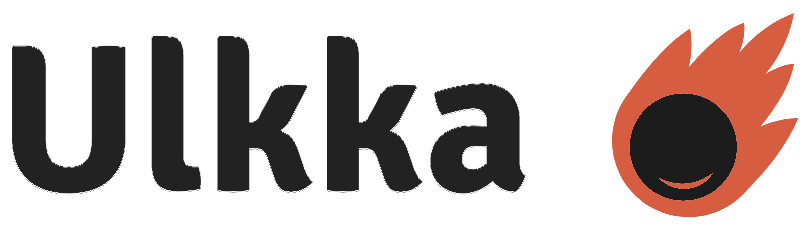
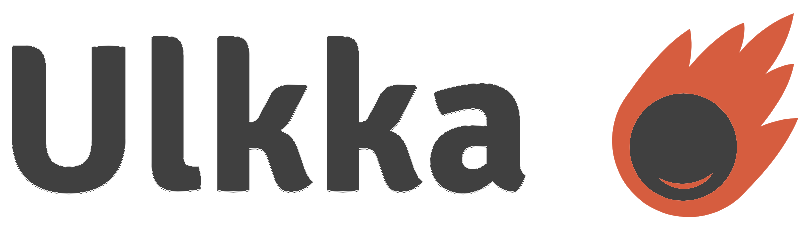
ios launch screen and some color changes

Changed region(s): [[0.1852, 0.1522, 0.6481, 0.8522], [0.0, 0.1826, 0.1543, 0.8522], [0.7716, 0.3957, 0.9259, 0.8826]]

diff --git a/src/screens/user/UserDetail.js b/src/screens/user/UserDetail.js
@@ -121,7 +121,7 @@ const AccountDetail = memo((props) => {
       style={{
         fontSize: 17,
         fontWeight: 'bold',
-        color: '#555',
+        color: '#444',
         paddingHorizontal: 10,
       }}>
       {userDisplayname}

diff --git a/src/components/Post/PostTitle.js b/src/components/Post/PostTitle.js
@@ -20,7 +20,7 @@ const PostTitle = (props) => {
           paddingVertical: 10,
           marginLeft: 3,
           fontWeight: 'bold',
-          color: '#555',
+          color: '#444',
         }}>
         {postTitle}
       </Text>

diff --git a/src/components/Post/TextPostContent.js b/src/components/Post/TextPostContent.js
@@ -44,6 +44,7 @@ const TextPostContent = (props) => {
           lineHeight: 22,
           textAlign: 'justify',
           paddingRight: 5,
+          color: '#444',
         }}>
         {description}
       </Text>

diff --git a/src/components/Post/PostHeader.js b/src/components/Post/PostHeader.js
@@ -49,7 +49,7 @@ const PostHeader = (props) => {
 
   const CommentAuthorDisplaynameColor = isPostAuthorCurrentUser
     ? '#02862ad6'
-    : '#555';
+    : '#444';
 
   const UserDisplayName = (
     <View>

diff --git a/src/components/Comment/CommentMetadata.js b/src/components/Comment/CommentMetadata.js
@@ -47,7 +47,7 @@ const CommentMetadata = (props) => {
     ? '#02862ad6'
     : isCommentAuthorPostAuthor
     ? '#245a89d6'
-    : '#666';
+    : '#444';
 
   const CommentAuthor = (
     <View
